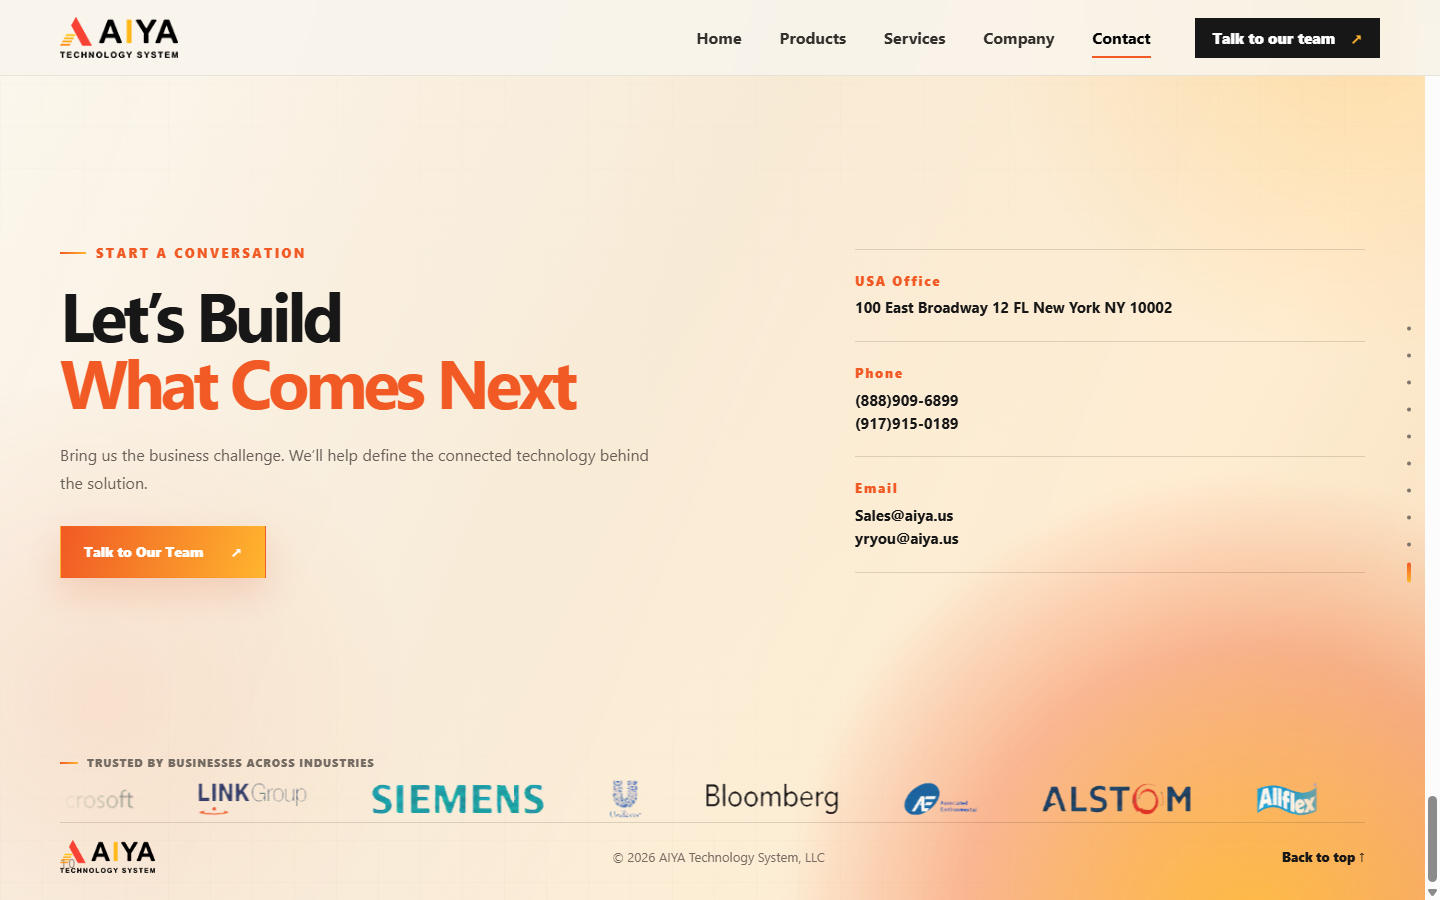
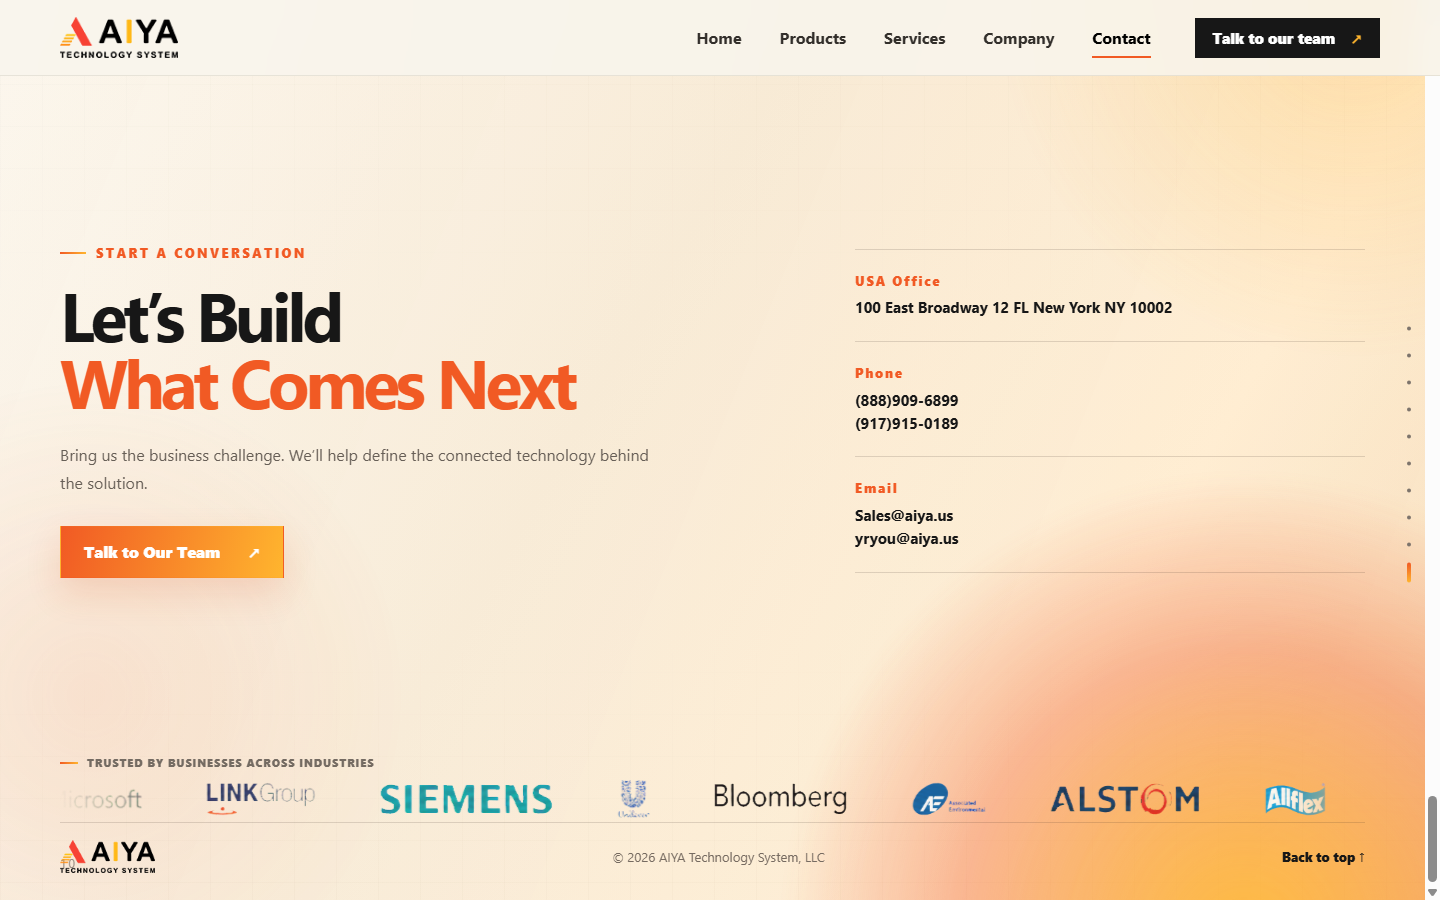
style: enlarge contact CTA text

diff --git a/styles.css b/styles.css
@@ -66,6 +66,7 @@
 .contact footer{left:max(48px,calc((100vw - 1320px)/2));right:max(48px,calc((100vw - 1320px)/2))}
 .main-nav a{font-size:16px}
 .header-cta{font-size:15px}
+.contact .button{font-size:16px}
 .button,.text-link{font-size:var(--text-ui)}
 .hero-slide p{font-size:17px}
 .scene-heading>p,.ordering-copy>p,.ecosystem-heading>p,.company-copy p,.contact-copy p{font-size:16px}
